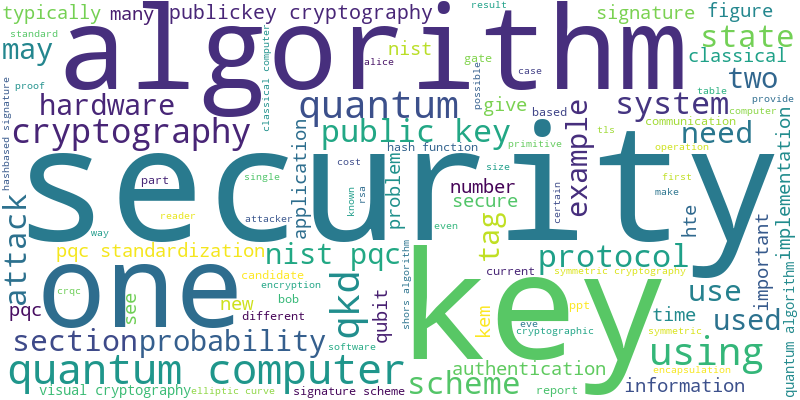
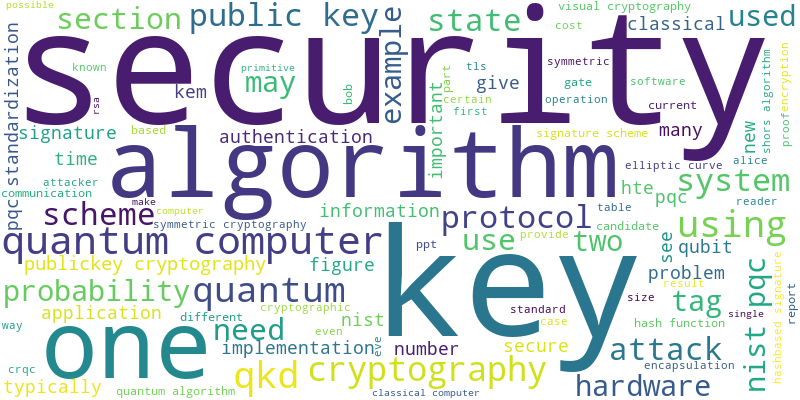
need to fix the id in the saved_articles model

diff --git a/veille-technologique-app-nassim/veille_app/templates/analysteArticles.html b/veille-technologique-app-nassim/veille_app/templates/analysteArticles.html
@@ -15,7 +15,6 @@
     <meta name="viewport" content="width=device-width, initial-scale=1.0">
     <title>Kanban Board</title>
     <link href="https://fonts.googleapis.com/css2?family=Inter:wght@400;500;600&display=swap" rel="stylesheet">
-    <link rel="stylesheet" href="https://cdn.jsdelivr.net/npm/bootstrap@4.3.1/dist/css/bootstrap.min.css" integrity="sha384-ggOyR0iXCbMQv3Xipma34MD+dH/1fQ784/j6cY/iJTQUOhcWr7x9JvoRxT2MZw1T" crossorigin="anonymous">
     <style>
         :root {
             --todo-color: #818cf8;
@@ -302,119 +301,77 @@
     <div class="container">
         <ul class="nav nav-tabs">
             <li class="nav-item">
-                <a class="nav-link " href=#>Articles</a>
+                <a class="nav-link active" aria-current="page" href="#">Articles</a>
               </li>
             <li class="nav-item">
               <a class="nav-link"  href="{% url 'author_statistics' %}">auteur</a>
             </li>
             <li class="nav-item">
-              <a class="nav-link active" aria-current="page" href="#">mots-clés</a>
+              <a class="nav-link"  href="{% url 'analyste' %}">mots-clés</a>
             </li>
             <li class="nav-item">
               <a class="nav-link" href="#">sentiment</a>
             </li>
             <li class="nav-item">
-              <a class="nav-link"  href="{% url 'word_statistics' %}">custom</a>
+              <a class="nav-link" href="{% url 'word_statistics' %}">custom</a>
             </li>
             <li class="nav-item">
                 <a class="nav-link"  href="{% url 'liste_rapports' %}">Rapport</a>
               </li>
+
           </ul>
-      
+          
+          <div class="container">
+        
 
-          
-              <h1>Nuage de Mots</h1>
-              <img src="{{ wordcloud_file }}" alt="WordCloud">
-          
-              <h1>Top 20 des Mots les Plus Fréquents</h1>
-              <img src="{{ bar_chart_file }}" alt="Bar Chart">
-          
-              <h1>Corrélation entre Mots-Clés</h1>
-              <div id="heatmap"></div>
-
-              <div id="carouselExampleIndicators" class="carousel slide" data-ride="carousel">
-                <ol class="carousel-indicators">
-                  <li data-target="#carouselExampleIndicators" data-slide-to="0" class="active"></li>
-                  <li data-target="#carouselExampleIndicators" data-slide-to="1"></li>
-                  <li data-target="#carouselExampleIndicators" data-slide-to="2"></li>
-                </ol>
-                <div class="carousel-inner">
-                  <div class="carousel-item active">
-                    <div id="correlation-matrix">{{ correlation_matrix_html|safe }}</div>
-                    
-                  </div>
-                  <div class="carousel-item">
-                    <div id="arc-diagram">{{ bubble_chart_html|safe }}</div>
-                    <div class="carousel-caption d-none d-md-block">
-                        <h5>graphique en bulles</h5>
-                      </div>
-                  </div>
-                  <div class="carousel-item">
-                    <div id="arc-diagram">{{ arc_diagram_html|safe }}</div>
-                    <div class="carousel-caption d-none d-md-block">
-                        <h5>graphique en arc</h5>
-                       
-                      </div>
-                  </div>
-                  <div class="carousel-item">
-                    <div id="network-graph">{{ network_graph_html|safe }}</div>
-                    <div class="carousel-caption d-none d-md-block">
-                        <h5>graphique en réseau</h5>
-                    
-                      </div>
-                  </div>
+            <div class="kanban-board">
+                <div class="kanban-column" id="to-do-column">
+                    <div class="column-header">
+                        <i class="fas fa-list header-icon"></i>
+                        <h4>Saved Articles for Task: {{ task.title }}</h4>
+                    </div>
+                    {% for saved_article in task.saved_articles.all %}
+                        <div class="kanban-task" id="task-{{ saved_article.id }}" data-task-id="{{ saved_article.id }}" draggable="true" ondragstart="drag(event)">
+                            <div class="task-title">{{ saved_article.title }}</div>
+                            <div class="task-meta">
+                                <i class="fas fa-link"></i>
+                                <a href="{{ saved_article.link }}" target="_blank">View Article</a>
+                            </div>
+                            <div class="task-meta">
+                                <i class="far fa-user"></i>
+                                Author: {{ saved_article.author }}
+                            </div>
+                            <div class="task-actions">
+                                <a href="{% url 'admin:veille_app_savedarticle_change' saved_article.id %}" class="task-btn edit-btn">
+                                    <i class="fas fa-edit"></i>
+                                    View Article
+                                </a>
+                            </div>
+                        </div>
+                    {% endfor %}
                 </div>
-                <a class="carousel-control-prev" href="#carouselExampleIndicators" role="button" data-slide="prev">
-                  <span class="carousel-control-prev-icon" aria-hidden="true"></span>
-                  <span class="sr-only">Previous</span>
-                </a>
-                <a class="carousel-control-next" href="#carouselExampleIndicators" role="button" data-slide="next">
-                  <span class="carousel-control-next-icon" aria-hidden="true"></span>
-                  <span class="sr-only">Next</span>
-                </a>
-              </div>
-            
+            </div>
+        </div>
               
-              <h1>Articles Associés aux Mots-Clés</h1>
-              <ul>
-                  {% for word_data in frequent_words_data %}
-                      <li>
-                          <strong>{{ word_data.word }}</strong> ({{ word_data.articles|length }} articles) :
-                          <ul>
-                              {% for article_info in word_data.articles %}
-                                  <li>
-                                      <a href="{{ article_info.article.link }}">{{ article_info.article.title }}</a>
-                                      ({{ article_info.count }} occurrences)
-                                  </li>
-                              {% endfor %}
-                          </ul>
-                      </li>
-                  {% endfor %}
-              </ul>
+        
+        <script>
+            // Select or deselect all checkboxes for each word's articles
+            document.querySelectorAll('.select_all_articles').forEach(function(selectAllCheckbox) {
+                selectAllCheckbox.addEventListener('change', function() {
+                    const wordId = this.getAttribute('data-word-id');
+                    const checkboxes = document.querySelectorAll('.article_checkbox[data-word-id="' + wordId + '"]');
+                    checkboxes.forEach(function(checkbox) {
+                        checkbox.checked = selectAllCheckbox.checked;
+                    });
+                });
+            });
+        </script>
+        
+
           
-              <script src="https://cdn.plot.ly/plotly-latest.min.js"></script>
-              <script>
-                  var correlationData = {{ correlation_data|safe }};
-                  var words = [...new Set(correlationData.map(d => d.word1).concat(correlationData.map(d => d.word2)))];
-                  var matrix = new Array(words.length).fill(0).map(() => new Array(words.length).fill(0));
           
-                  correlationData.forEach(d => {
-                      var i = words.indexOf(d.word1);
-                      var j = words.indexOf(d.word2);
-                      matrix[i][j] = d.count;
-                  });
-          
-                  var heatmapData = {
-                      z: matrix,
-                      x: words,
-                      y: words,
-                      type: 'heatmap',
-                      colorscale: 'Viridis'
-                  };
-          
-                  Plotly.newPlot('heatmap', [heatmapData], { title: 'Corrélation entre Mots-Clés' });
-              </script>
-          
+        </div>
+    
 
     <script>
         let draggedTask = null;
@@ -490,9 +447,6 @@
             return cookieValue;
         }
     </script>
-    <script src="https://code.jquery.com/jquery-3.3.1.slim.min.js" integrity="sha384-q8i/X+965DzO0rT7abK41JStQIAqVgRVzpbzo5smXKp4YfRvH+8abtTE1Pi6jizo" crossorigin="anonymous"></script>
-    <script src="https://cdn.jsdelivr.net/npm/popper.js@1.14.7/dist/umd/popper.min.js" integrity="sha384-UO2eT0CpHqdSJQ6hJty5KVphtPhzWj9WO1clHTMGa3JDZwrnQq4sF86dIHNDz0W1" crossorigin="anonymous"></script>
-    <script src="https://cdn.jsdelivr.net/npm/bootstrap@4.3.1/dist/js/bootstrap.min.js" integrity="sha384-JjSmVgyd0p3pXB1rRibZUAYoIIy6OrQ6VrjIEaFf/nJGzIxFDsf4x0xIM+B07jRM" crossorigin="anonymous"></script>
 </body>
 </html>
 {% endblock %}

diff --git a/veille-technologique-app-nassim/veille_app/templates/analyste.html b/veille-technologique-app-nassim/veille_app/templates/analyste.html
@@ -339,8 +339,7 @@
                                 </a>
                             </div> -->
                             <div class="task-actions">
-                                <a href="{% url 'task_saved_articles' task.id %}" class="task-btn view-content-btn">
-                                    <i class="fas fa-eye"></i>
+                                <a href="{% url 'task_saved_articles' task.id %}" class="task-btn view-content-btn">                                    <i class="fas fa-eye"></i>
                                     View Articles
                                 </a>
                                 

diff --git a/veille-technologique-app-nassim/veille_app/views.py b/veille-technologique-app-nassim/veille_app/views.py
@@ -1151,11 +1151,36 @@ def detail_rapport(request, rapport_id):
 
 
 
+# def analyste_kanban_view(request):
+#     # tasks = Task.objects.filter(assignmentsuser=request.user).prefetch_related('assignmentsuser')
+#     tasks=Task.objects
+#     tasks_todo = tasks.filter(status='To Do')
+#     tasks_in_progress = tasks.filter(status='In Progress')
+#     tasks_completed = tasks.filter(status='Completed')
+
+#     return render(request, 'analyste.html', {'tasks': tasks,'tasks_todo':tasks_todo,'tasks_in_progress':tasks_in_progress,'tasks_completed':tasks_completed})
+
+
 def analyste_kanban_view(request):
-    # tasks = Task.objects.filter(assignmentsuser=request.user).prefetch_related('assignmentsuser')
-    tasks=Task.objects
+    # Récupérer les tâches assignées à l'utilisateur connecté
+    tasks = Task.objects.all()  # Exécute une requête pour récupérer tous les objets Task
     tasks_todo = tasks.filter(status='To Do')
     tasks_in_progress = tasks.filter(status='In Progress')
     tasks_completed = tasks.filter(status='Completed')
 
-    return render(request, 'analyste.html', {'tasks': tasks,'tasks_todo':tasks_todo,'tasks_in_progress':tasks_in_progress,'tasks_completed':tasks_completed})
+    return render(request, 'analyste.html', {
+        'tasks': tasks, 
+        'tasks_todo': tasks_todo,
+        'tasks_in_progress': tasks_in_progress,
+        'tasks_completed': tasks_completed
+    })
+
+
+
+def task_saved_articles(request, task_id):
+    task = get_object_or_404(Task, id=task_id)
+    # Fetch all saved articles related to the task
+    # saved_articles = SavedArticle.objects.filter(task=task)
+    saved_articles = SavedArticle.objects
+
+    return render(request, 'analysteArticles.html', {'task': task, 'saved_articles': saved_articles})

diff --git a/veille-technologique-app-nassim/veille_app/models.py b/veille-technologique-app-nassim/veille_app/models.py
@@ -76,6 +76,22 @@ class SavedArticle(models.Model):
         return self.title
 
 
+
+# class SavedArticle(models.Model):
+#     title = models.CharField(max_length=500)
+#     link = models.URLField(unique=True)
+#     content = models.TextField(default="No content available.")
+#     summary = models.TextField(default="No content available.")
+#     author = models.TextField(default="No author available.")  # Updated default
+#     task = models.ForeignKey(Task, related_name='saved_articles', on_delete=models.CASCADE,null=True)
+
+   
+
+#     def __str__(self):
+#         return self.title
+
+
+
 class DeletedArticle(models.Model):
     title = models.CharField(max_length=500)
     link = models.URLField(unique=True)
@@ -107,7 +123,6 @@ class Report(models.Model):
         return self.title
 
 
-from django.db import models
 
 class Rapport(models.Model):
     titre = models.CharField(max_length=200)

diff --git a/veille-technologique-app-nassim/veille_app/urls.py b/veille-technologique-app-nassim/veille_app/urls.py
@@ -40,6 +40,8 @@ urlpatterns = [
     path('rapports/<int:rapport_id>/', detail_rapport, name='detail_rapport'),
     path('creer-rapport/', creer_rapport, name='creer_rapport'),
     path('rapport/', rapport, name='rapport'),
+    path('task_saved_articles/<int:task_id>/', task_saved_articles, name='task_saved_articles'),
+
 
 
 ]
